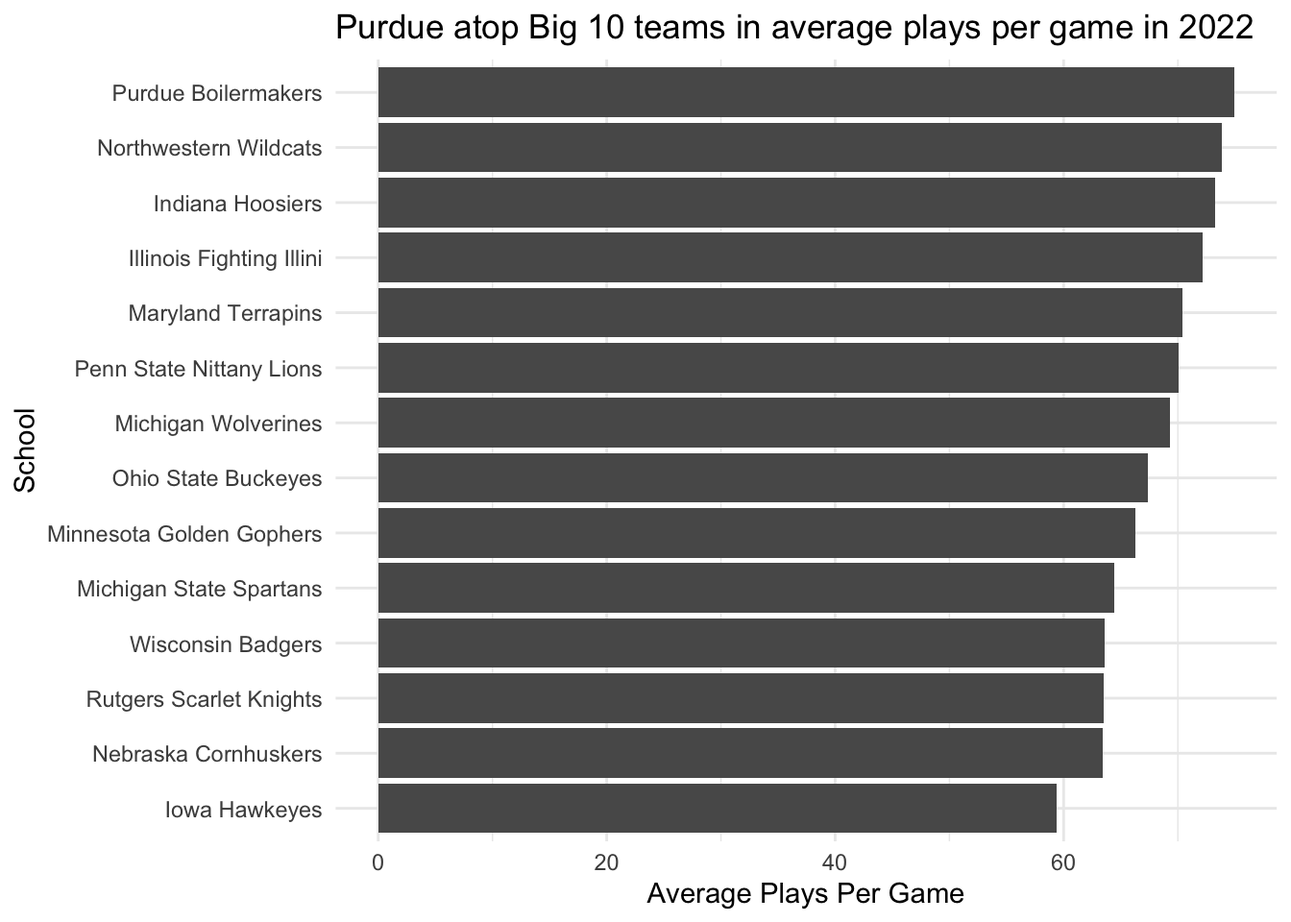
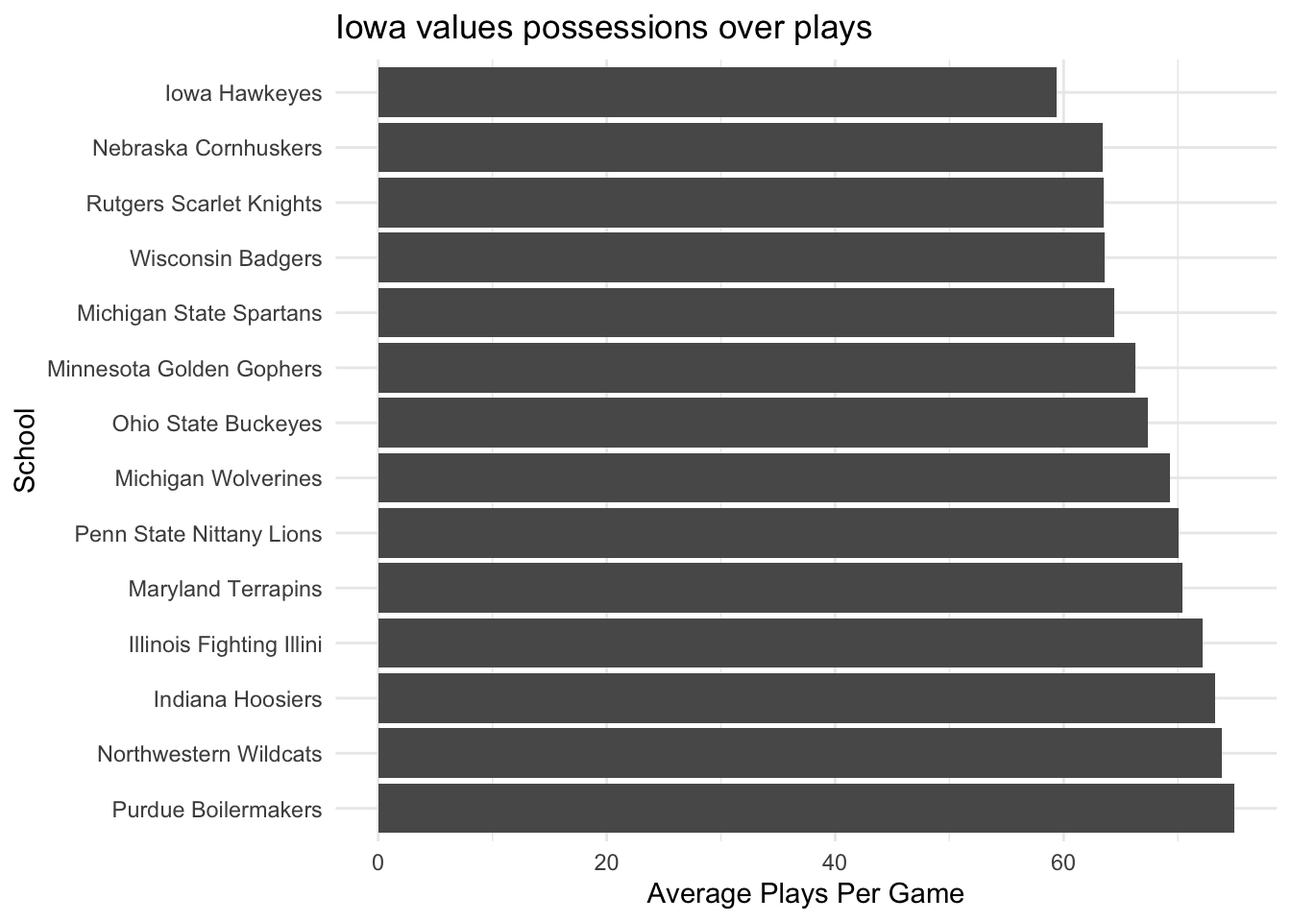
update

diff --git a/docs/posts/less-cfb-plays-2023-than-2022/index.html b/docs/posts/less-cfb-plays-2023-than-2022/index.html
@@ -183,95 +183,58 @@ pre > code.sourceCode > span > a:first-child::before { text-decoration: underlin
 <summary>Code</summary>
 <div class="sourceCode cell-code" id="cb1"><pre class="sourceCode r code-with-copy"><code class="sourceCode r"><span id="cb1-1"><a href="#cb1-1" aria-hidden="true" tabindex="-1"></a><span class="fu">library</span>(tidyverse)</span></code><button title="Copy to Clipboard" class="code-copy-button"><i class="bi"></i></button></pre></div>
 </details>
-<div class="cell-output cell-output-stderr">
-<pre><code>── Attaching core tidyverse packages ──────────────────────── tidyverse 2.0.0 ──
-✔ dplyr     1.1.2     ✔ readr     2.1.4
-✔ forcats   1.0.0     ✔ stringr   1.5.0
-✔ ggplot2   3.4.3     ✔ tibble    3.2.1
-✔ lubridate 1.9.2     ✔ tidyr     1.3.0
-✔ purrr     1.0.2     
-── Conflicts ────────────────────────────────────────── tidyverse_conflicts() ──
-✖ dplyr::filter() masks stats::filter()
-✖ dplyr::lag()    masks stats::lag()
-ℹ Use the conflicted package (&lt;http://conflicted.r-lib.org/&gt;) to force all conflicts to become errors</code></pre>
-</div>
 </div>
 <p>Create college football data frames for 2022 and 2023.</p>
 <div class="cell">
 <details>
 <summary>Code</summary>
-<div class="sourceCode cell-code" id="cb3"><pre class="sourceCode r code-with-copy"><code class="sourceCode r"><span id="cb3-1"><a href="#cb3-1" aria-hidden="true" tabindex="-1"></a>logs22 <span class="ot">&lt;-</span> <span class="fu">read_csv</span>(<span class="st">"https://dwillis.github.io/sports-data-files/footballlogs22.csv"</span>)</span></code><button title="Copy to Clipboard" class="code-copy-button"><i class="bi"></i></button></pre></div>
+<div class="sourceCode cell-code" id="cb2"><pre class="sourceCode r code-with-copy"><code class="sourceCode r"><span id="cb2-1"><a href="#cb2-1" aria-hidden="true" tabindex="-1"></a>logs22 <span class="ot">&lt;-</span> <span class="fu">read_csv</span>(<span class="st">"https://dwillis.github.io/sports-data-files/footballlogs22.csv"</span>)</span>
+<span id="cb2-2"><a href="#cb2-2" aria-hidden="true" tabindex="-1"></a>logs23 <span class="ot">&lt;-</span> <span class="fu">read_csv</span>(<span class="st">"https://dwillis.github.io/sports-data-files/footballlogs23.csv"</span>)</span></code><button title="Copy to Clipboard" class="code-copy-button"><i class="bi"></i></button></pre></div>
 </details>
-<div class="cell-output cell-output-stderr">
-<pre><code>Rows: 1672 Columns: 54
-── Column specification ────────────────────────────────────────────────────────
-Delimiter: ","
-chr   (8): HomeAway, Opponent, Result, TeamFull, TeamURL, Outcome, Team, Con...
-dbl  (45): Game, PassingCmp, PassingAtt, PassingPct, PassingYds, PassingTD, ...
-date  (1): Date
-
-ℹ Use `spec()` to retrieve the full column specification for this data.
-ℹ Specify the column types or set `show_col_types = FALSE` to quiet this message.</code></pre>
-</div>
-<details>
-<summary>Code</summary>
-<div class="sourceCode cell-code" id="cb5"><pre class="sourceCode r code-with-copy"><code class="sourceCode r"><span id="cb5-1"><a href="#cb5-1" aria-hidden="true" tabindex="-1"></a>logs23 <span class="ot">&lt;-</span> <span class="fu">read_csv</span>(<span class="st">"https://dwillis.github.io/sports-data-files/footballlogs23.csv"</span>)</span></code><button title="Copy to Clipboard" class="code-copy-button"><i class="bi"></i></button></pre></div>
-</details>
-<div class="cell-output cell-output-stderr">
-<pre><code>Rows: 752 Columns: 54
-── Column specification ────────────────────────────────────────────────────────
-Delimiter: ","
-chr   (8): HomeAway, Opponent, Result, TeamFull, TeamURL, Outcome, Team, Con...
-dbl  (45): Game, PassingCmp, PassingAtt, PassingPct, PassingYds, PassingTD, ...
-date  (1): Date
-
-ℹ Use `spec()` to retrieve the full column specification for this data.
-ℹ Specify the column types or set `show_col_types = FALSE` to quiet this message.</code></pre>
-</div>
 </div>
 <p>Create a list of Big 10 teams.</p>
 <div class="cell">
 <details>
 <summary>Code</summary>
-<div class="sourceCode cell-code" id="cb7"><pre class="sourceCode r code-with-copy"><code class="sourceCode r"><span id="cb7-1"><a href="#cb7-1" aria-hidden="true" tabindex="-1"></a>big10 <span class="ot">&lt;-</span> <span class="fu">c</span>(<span class="st">"Nebraska Cornhuskers"</span>, <span class="st">"Iowa Hawkeyes"</span>, <span class="st">"Minnesota Golden Gophers"</span>, <span class="st">"Illinois Fighting Illini"</span>, <span class="st">"Northwestern Wildcats"</span>, <span class="st">"Wisconsin Badgers"</span>, <span class="st">"Indiana Hoosiers"</span>, <span class="st">"Purdue Boilermakers"</span>, <span class="st">"Ohio State Buckeyes"</span>, <span class="st">"Michigan Wolverines"</span>, <span class="st">"Michigan State Spartans"</span>, <span class="st">"Penn State Nittany Lions"</span>, <span class="st">"Rutgers Scarlet Knights"</span>, <span class="st">"Maryland Terrapins"</span>)</span></code><button title="Copy to Clipboard" class="code-copy-button"><i class="bi"></i></button></pre></div>
+<div class="sourceCode cell-code" id="cb3"><pre class="sourceCode r code-with-copy"><code class="sourceCode r"><span id="cb3-1"><a href="#cb3-1" aria-hidden="true" tabindex="-1"></a>big10 <span class="ot">&lt;-</span> <span class="fu">c</span>(<span class="st">"Nebraska Cornhuskers"</span>, <span class="st">"Iowa Hawkeyes"</span>, <span class="st">"Minnesota Golden Gophers"</span>, <span class="st">"Illinois Fighting Illini"</span>, <span class="st">"Northwestern Wildcats"</span>, <span class="st">"Wisconsin Badgers"</span>, <span class="st">"Indiana Hoosiers"</span>, <span class="st">"Purdue Boilermakers"</span>, <span class="st">"Ohio State Buckeyes"</span>, <span class="st">"Michigan Wolverines"</span>, <span class="st">"Michigan State Spartans"</span>, <span class="st">"Penn State Nittany Lions"</span>, <span class="st">"Rutgers Scarlet Knights"</span>, <span class="st">"Maryland Terrapins"</span>)</span></code><button title="Copy to Clipboard" class="code-copy-button"><i class="bi"></i></button></pre></div>
 </details>
 </div>
 <p>Filter the data for 2022 using the Big 10 list.</p>
 <div class="cell">
 <details>
 <summary>Code</summary>
-<div class="sourceCode cell-code" id="cb8"><pre class="sourceCode r code-with-copy"><code class="sourceCode r"><span id="cb8-1"><a href="#cb8-1" aria-hidden="true" tabindex="-1"></a>big22 <span class="ot">&lt;-</span> logs22<span class="sc">|&gt;</span> <span class="fu">filter</span>(TeamFull <span class="sc">%in%</span> big10)</span></code><button title="Copy to Clipboard" class="code-copy-button"><i class="bi"></i></button></pre></div>
+<div class="sourceCode cell-code" id="cb4"><pre class="sourceCode r code-with-copy"><code class="sourceCode r"><span id="cb4-1"><a href="#cb4-1" aria-hidden="true" tabindex="-1"></a>big22 <span class="ot">&lt;-</span> logs22<span class="sc">|&gt;</span> <span class="fu">filter</span>(TeamFull <span class="sc">%in%</span> big10)</span></code><button title="Copy to Clipboard" class="code-copy-button"><i class="bi"></i></button></pre></div>
 </details>
 </div>
 <p>Calculate the average number of offensive plays per Big 10 team in 2022.</p>
 <div class="cell">
 <details>
 <summary>Code</summary>
-<div class="sourceCode cell-code" id="cb9"><pre class="sourceCode r code-with-copy"><code class="sourceCode r"><span id="cb9-1"><a href="#cb9-1" aria-hidden="true" tabindex="-1"></a>big22plays <span class="ot">&lt;-</span> big22 <span class="sc">|&gt;</span></span>
-<span id="cb9-2"><a href="#cb9-2" aria-hidden="true" tabindex="-1"></a>  <span class="fu">group_by</span>(TeamFull) <span class="sc">|&gt;</span></span>
-<span id="cb9-3"><a href="#cb9-3" aria-hidden="true" tabindex="-1"></a>  <span class="fu">summarise</span>(</span>
-<span id="cb9-4"><a href="#cb9-4" aria-hidden="true" tabindex="-1"></a>    <span class="at">avgPlays =</span> <span class="fu">mean</span>(OffensivePlays)</span>
-<span id="cb9-5"><a href="#cb9-5" aria-hidden="true" tabindex="-1"></a>  )</span></code><button title="Copy to Clipboard" class="code-copy-button"><i class="bi"></i></button></pre></div>
+<div class="sourceCode cell-code" id="cb5"><pre class="sourceCode r code-with-copy"><code class="sourceCode r"><span id="cb5-1"><a href="#cb5-1" aria-hidden="true" tabindex="-1"></a>big22plays <span class="ot">&lt;-</span> big22 <span class="sc">|&gt;</span></span>
+<span id="cb5-2"><a href="#cb5-2" aria-hidden="true" tabindex="-1"></a>  <span class="fu">group_by</span>(TeamFull) <span class="sc">|&gt;</span></span>
+<span id="cb5-3"><a href="#cb5-3" aria-hidden="true" tabindex="-1"></a>  <span class="fu">summarise</span>(</span>
+<span id="cb5-4"><a href="#cb5-4" aria-hidden="true" tabindex="-1"></a>    <span class="at">avgPlays =</span> <span class="fu">mean</span>(OffensivePlays)</span>
+<span id="cb5-5"><a href="#cb5-5" aria-hidden="true" tabindex="-1"></a>  )</span></code><button title="Copy to Clipboard" class="code-copy-button"><i class="bi"></i></button></pre></div>
 </details>
 </div>
 <p>Make a bar chart of the 2022 Big Ten offensive play averages using ggplot. Add the weight of the average plays to the aesthetic and then reorder the teams by that weight. Add labels for the title and each axis.</p>
-<p>Purdue leads a top four of them, Northwestern, Indiana and Illinois among teams in the Big 10 that averaged the most plays per game in 2022. A lot of the teams in the Big 10 are bunched together around 70 plays or more per game, with the entirety of the top-half of the teams averaging over 69 plays per game. Iowa clearly brings up the rear at less than 60 plays per game, over 15 plays fewer than Purdue.</p>
+<p>Iowa clearly brings up the rear among teams in the Big 10 that averaged the most plays per game in 2022 at less than 60 plays per game. The Hawkeyes seem to value simply getting possessions and controlling the clock over getting off as many plays as possible. They are over 15 plays fewer than Purdue — the number one team of a top four of them, Northwestern, Indiana and Illinois. A lot of the teams in the Big 10 are bunched together around 70 plays or more per game, with the entirety of the top-half of the teams averaging over 69 plays per game.</p>
 <div class="cell">
 <details>
 <summary>Code</summary>
-<div class="sourceCode cell-code" id="cb10"><pre class="sourceCode r code-with-copy"><code class="sourceCode r"><span id="cb10-1"><a href="#cb10-1" aria-hidden="true" tabindex="-1"></a><span class="fu">ggplot</span>() <span class="sc">+</span> </span>
-<span id="cb10-2"><a href="#cb10-2" aria-hidden="true" tabindex="-1"></a>  <span class="fu">geom_bar</span>(</span>
-<span id="cb10-3"><a href="#cb10-3" aria-hidden="true" tabindex="-1"></a>    <span class="at">data=</span>big22plays, </span>
-<span id="cb10-4"><a href="#cb10-4" aria-hidden="true" tabindex="-1"></a>    <span class="fu">aes</span>(</span>
-<span id="cb10-5"><a href="#cb10-5" aria-hidden="true" tabindex="-1"></a>      <span class="at">x=</span><span class="fu">reorder</span>(TeamFull, avgPlays), <span class="at">weight =</span> avgPlays)</span>
-<span id="cb10-6"><a href="#cb10-6" aria-hidden="true" tabindex="-1"></a>  ) <span class="sc">+</span></span>
-<span id="cb10-7"><a href="#cb10-7" aria-hidden="true" tabindex="-1"></a>  <span class="fu">labs</span>(</span>
-<span id="cb10-8"><a href="#cb10-8" aria-hidden="true" tabindex="-1"></a>    <span class="at">title=</span><span class="st">"Purdue atop Big 10 teams in average plays per game in 2022"</span>, </span>
-<span id="cb10-9"><a href="#cb10-9" aria-hidden="true" tabindex="-1"></a>    <span class="at">x=</span><span class="st">"School"</span>, </span>
-<span id="cb10-10"><a href="#cb10-10" aria-hidden="true" tabindex="-1"></a>    <span class="at">y=</span><span class="st">"Average Plays Per Game"</span></span>
-<span id="cb10-11"><a href="#cb10-11" aria-hidden="true" tabindex="-1"></a>  ) <span class="sc">+</span> </span>
-<span id="cb10-12"><a href="#cb10-12" aria-hidden="true" tabindex="-1"></a>  <span class="fu">theme_minimal</span>() <span class="sc">+</span> </span>
-<span id="cb10-13"><a href="#cb10-13" aria-hidden="true" tabindex="-1"></a>  <span class="fu">coord_flip</span>()</span></code><button title="Copy to Clipboard" class="code-copy-button"><i class="bi"></i></button></pre></div>
+<div class="sourceCode cell-code" id="cb6"><pre class="sourceCode r code-with-copy"><code class="sourceCode r"><span id="cb6-1"><a href="#cb6-1" aria-hidden="true" tabindex="-1"></a><span class="fu">ggplot</span>() <span class="sc">+</span> </span>
+<span id="cb6-2"><a href="#cb6-2" aria-hidden="true" tabindex="-1"></a>  <span class="fu">geom_bar</span>(</span>
+<span id="cb6-3"><a href="#cb6-3" aria-hidden="true" tabindex="-1"></a>    <span class="at">data=</span>big22plays, </span>
+<span id="cb6-4"><a href="#cb6-4" aria-hidden="true" tabindex="-1"></a>    <span class="fu">aes</span>(</span>
+<span id="cb6-5"><a href="#cb6-5" aria-hidden="true" tabindex="-1"></a>      <span class="at">x=</span><span class="fu">reorder</span>(TeamFull, <span class="sc">-</span>avgPlays), <span class="at">weight =</span> avgPlays)</span>
+<span id="cb6-6"><a href="#cb6-6" aria-hidden="true" tabindex="-1"></a>  ) <span class="sc">+</span></span>
+<span id="cb6-7"><a href="#cb6-7" aria-hidden="true" tabindex="-1"></a>  <span class="fu">labs</span>(</span>
+<span id="cb6-8"><a href="#cb6-8" aria-hidden="true" tabindex="-1"></a>    <span class="at">title=</span><span class="st">"Iowa values possessions over plays"</span>, </span>
+<span id="cb6-9"><a href="#cb6-9" aria-hidden="true" tabindex="-1"></a>    <span class="at">x=</span><span class="st">"School"</span>, </span>
+<span id="cb6-10"><a href="#cb6-10" aria-hidden="true" tabindex="-1"></a>    <span class="at">y=</span><span class="st">"Average Plays Per Game"</span></span>
+<span id="cb6-11"><a href="#cb6-11" aria-hidden="true" tabindex="-1"></a>  ) <span class="sc">+</span> </span>
+<span id="cb6-12"><a href="#cb6-12" aria-hidden="true" tabindex="-1"></a>  <span class="fu">theme_minimal</span>() <span class="sc">+</span> </span>
+<span id="cb6-13"><a href="#cb6-13" aria-hidden="true" tabindex="-1"></a>  <span class="fu">coord_flip</span>()</span></code><button title="Copy to Clipboard" class="code-copy-button"><i class="bi"></i></button></pre></div>
 </details>
 <div class="cell-output-display">
 <p><img src="index_files/figure-html/unnamed-chunk-6-1.png" class="img-fluid" width="672"></p>
@@ -281,18 +244,18 @@ date  (1): Date
 <div class="cell">
 <details>
 <summary>Code</summary>
-<div class="sourceCode cell-code" id="cb11"><pre class="sourceCode r code-with-copy"><code class="sourceCode r"><span id="cb11-1"><a href="#cb11-1" aria-hidden="true" tabindex="-1"></a>big23 <span class="ot">&lt;-</span> logs23<span class="sc">|&gt;</span> <span class="fu">filter</span>(TeamFull <span class="sc">%in%</span> big10)</span></code><button title="Copy to Clipboard" class="code-copy-button"><i class="bi"></i></button></pre></div>
+<div class="sourceCode cell-code" id="cb7"><pre class="sourceCode r code-with-copy"><code class="sourceCode r"><span id="cb7-1"><a href="#cb7-1" aria-hidden="true" tabindex="-1"></a>big23 <span class="ot">&lt;-</span> logs23<span class="sc">|&gt;</span> <span class="fu">filter</span>(TeamFull <span class="sc">%in%</span> big10)</span></code><button title="Copy to Clipboard" class="code-copy-button"><i class="bi"></i></button></pre></div>
 </details>
 </div>
 <p>Calculate the average number of offensive plays per Big 10 team in 2023.</p>
 <div class="cell">
 <details>
 <summary>Code</summary>
-<div class="sourceCode cell-code" id="cb12"><pre class="sourceCode r code-with-copy"><code class="sourceCode r"><span id="cb12-1"><a href="#cb12-1" aria-hidden="true" tabindex="-1"></a>big23plays <span class="ot">&lt;-</span> big23 <span class="sc">|&gt;</span></span>
-<span id="cb12-2"><a href="#cb12-2" aria-hidden="true" tabindex="-1"></a>  <span class="fu">group_by</span>(TeamFull) <span class="sc">|&gt;</span></span>
-<span id="cb12-3"><a href="#cb12-3" aria-hidden="true" tabindex="-1"></a>  <span class="fu">summarise</span>(</span>
-<span id="cb12-4"><a href="#cb12-4" aria-hidden="true" tabindex="-1"></a>    <span class="at">avgPlays =</span> <span class="fu">mean</span>(OffensivePlays)</span>
-<span id="cb12-5"><a href="#cb12-5" aria-hidden="true" tabindex="-1"></a>  )</span></code><button title="Copy to Clipboard" class="code-copy-button"><i class="bi"></i></button></pre></div>
+<div class="sourceCode cell-code" id="cb8"><pre class="sourceCode r code-with-copy"><code class="sourceCode r"><span id="cb8-1"><a href="#cb8-1" aria-hidden="true" tabindex="-1"></a>big23plays <span class="ot">&lt;-</span> big23 <span class="sc">|&gt;</span></span>
+<span id="cb8-2"><a href="#cb8-2" aria-hidden="true" tabindex="-1"></a>  <span class="fu">group_by</span>(TeamFull) <span class="sc">|&gt;</span></span>
+<span id="cb8-3"><a href="#cb8-3" aria-hidden="true" tabindex="-1"></a>  <span class="fu">summarise</span>(</span>
+<span id="cb8-4"><a href="#cb8-4" aria-hidden="true" tabindex="-1"></a>    <span class="at">avgPlays =</span> <span class="fu">mean</span>(OffensivePlays)</span>
+<span id="cb8-5"><a href="#cb8-5" aria-hidden="true" tabindex="-1"></a>  )</span></code><button title="Copy to Clipboard" class="code-copy-button"><i class="bi"></i></button></pre></div>
 </details>
 </div>
 <p>Make a bar chart of the 2023 Big Ten offensive play averages using ggplot. Add the weight of the average plays to the aesthetic and then reorder the teams by that weight. Add labels for the title and each axis.</p>
@@ -300,55 +263,43 @@ date  (1): Date
 <div class="cell">
 <details>
 <summary>Code</summary>
-<div class="sourceCode cell-code" id="cb13"><pre class="sourceCode r code-with-copy"><code class="sourceCode r"><span id="cb13-1"><a href="#cb13-1" aria-hidden="true" tabindex="-1"></a><span class="fu">ggplot</span>() <span class="sc">+</span> </span>
-<span id="cb13-2"><a href="#cb13-2" aria-hidden="true" tabindex="-1"></a>  <span class="fu">geom_bar</span>(</span>
-<span id="cb13-3"><a href="#cb13-3" aria-hidden="true" tabindex="-1"></a>    <span class="at">data=</span>big23plays, </span>
-<span id="cb13-4"><a href="#cb13-4" aria-hidden="true" tabindex="-1"></a>    <span class="fu">aes</span>(</span>
-<span id="cb13-5"><a href="#cb13-5" aria-hidden="true" tabindex="-1"></a>      <span class="at">x=</span><span class="fu">reorder</span>(TeamFull, avgPlays), <span class="at">weight =</span> avgPlays)</span>
-<span id="cb13-6"><a href="#cb13-6" aria-hidden="true" tabindex="-1"></a>  ) <span class="sc">+</span></span>
-<span id="cb13-7"><a href="#cb13-7" aria-hidden="true" tabindex="-1"></a>  <span class="fu">labs</span>(</span>
-<span id="cb13-8"><a href="#cb13-8" aria-hidden="true" tabindex="-1"></a>    <span class="at">title=</span><span class="st">"Penn State atop Big 10 teams in average plays per game in 2023"</span>, </span>
-<span id="cb13-9"><a href="#cb13-9" aria-hidden="true" tabindex="-1"></a>    <span class="at">x=</span><span class="st">"School"</span>, </span>
-<span id="cb13-10"><a href="#cb13-10" aria-hidden="true" tabindex="-1"></a>    <span class="at">y=</span><span class="st">"Average Plays Per Game"</span></span>
-<span id="cb13-11"><a href="#cb13-11" aria-hidden="true" tabindex="-1"></a>  ) <span class="sc">+</span> </span>
-<span id="cb13-12"><a href="#cb13-12" aria-hidden="true" tabindex="-1"></a>  <span class="fu">theme_minimal</span>() <span class="sc">+</span> </span>
-<span id="cb13-13"><a href="#cb13-13" aria-hidden="true" tabindex="-1"></a>  <span class="fu">coord_flip</span>()</span></code><button title="Copy to Clipboard" class="code-copy-button"><i class="bi"></i></button></pre></div>
+<div class="sourceCode cell-code" id="cb9"><pre class="sourceCode r code-with-copy"><code class="sourceCode r"><span id="cb9-1"><a href="#cb9-1" aria-hidden="true" tabindex="-1"></a><span class="fu">ggplot</span>() <span class="sc">+</span> </span>
+<span id="cb9-2"><a href="#cb9-2" aria-hidden="true" tabindex="-1"></a>  <span class="fu">geom_bar</span>(</span>
+<span id="cb9-3"><a href="#cb9-3" aria-hidden="true" tabindex="-1"></a>    <span class="at">data=</span>big23plays, </span>
+<span id="cb9-4"><a href="#cb9-4" aria-hidden="true" tabindex="-1"></a>    <span class="fu">aes</span>(</span>
+<span id="cb9-5"><a href="#cb9-5" aria-hidden="true" tabindex="-1"></a>      <span class="at">x=</span><span class="fu">reorder</span>(TeamFull, avgPlays), <span class="at">weight =</span> avgPlays)</span>
+<span id="cb9-6"><a href="#cb9-6" aria-hidden="true" tabindex="-1"></a>  ) <span class="sc">+</span></span>
+<span id="cb9-7"><a href="#cb9-7" aria-hidden="true" tabindex="-1"></a>  <span class="fu">labs</span>(</span>
+<span id="cb9-8"><a href="#cb9-8" aria-hidden="true" tabindex="-1"></a>    <span class="at">title=</span><span class="st">"Penn State's fast-paced offense"</span>, </span>
+<span id="cb9-9"><a href="#cb9-9" aria-hidden="true" tabindex="-1"></a>    <span class="at">x=</span><span class="st">"School"</span>, </span>
+<span id="cb9-10"><a href="#cb9-10" aria-hidden="true" tabindex="-1"></a>    <span class="at">y=</span><span class="st">"Average Plays Per Game"</span></span>
+<span id="cb9-11"><a href="#cb9-11" aria-hidden="true" tabindex="-1"></a>  ) <span class="sc">+</span> </span>
+<span id="cb9-12"><a href="#cb9-12" aria-hidden="true" tabindex="-1"></a>  <span class="fu">theme_minimal</span>() <span class="sc">+</span> </span>
+<span id="cb9-13"><a href="#cb9-13" aria-hidden="true" tabindex="-1"></a>  <span class="fu">coord_flip</span>()</span></code><button title="Copy to Clipboard" class="code-copy-button"><i class="bi"></i></button></pre></div>
 </details>
 <div class="cell-output-display">
 <p><img src="index_files/figure-html/unnamed-chunk-9-1.png" class="img-fluid" width="672"></p>
 </div>
 </div>
-<p>Divide the sum of the entirety of the Big 10 teams’ 2022 plays by 14 to get the average number of plays for the conference.</p>
+<p>Divide the sum of the entirety of the Big 10 teams’ 2022 plays by 14 to get the average number of plays for the conference. That gets an average of about 67.99.</p>
 <div class="cell">
 <details>
 <summary>Code</summary>
-<div class="sourceCode cell-code" id="cb14"><pre class="sourceCode r code-with-copy"><code class="sourceCode r"><span id="cb14-1"><a href="#cb14-1" aria-hidden="true" tabindex="-1"></a>big22plays <span class="sc">|&gt;</span></span>
-<span id="cb14-2"><a href="#cb14-2" aria-hidden="true" tabindex="-1"></a>  <span class="fu">summarise</span>(</span>
-<span id="cb14-3"><a href="#cb14-3" aria-hidden="true" tabindex="-1"></a>    <span class="at">avgPlays =</span> (<span class="fu">sum</span>(avgPlays))<span class="sc">/</span><span class="dv">14</span></span>
-<span id="cb14-4"><a href="#cb14-4" aria-hidden="true" tabindex="-1"></a>  )</span></code><button title="Copy to Clipboard" class="code-copy-button"><i class="bi"></i></button></pre></div>
+<div class="sourceCode cell-code" id="cb10"><pre class="sourceCode r code-with-copy"><code class="sourceCode r"><span id="cb10-1"><a href="#cb10-1" aria-hidden="true" tabindex="-1"></a>big22plays <span class="sc">|&gt;</span></span>
+<span id="cb10-2"><a href="#cb10-2" aria-hidden="true" tabindex="-1"></a>  <span class="fu">summarise</span>(</span>
+<span id="cb10-3"><a href="#cb10-3" aria-hidden="true" tabindex="-1"></a>    <span class="at">avgPlays =</span> (<span class="fu">sum</span>(avgPlays))<span class="sc">/</span><span class="dv">14</span></span>
+<span id="cb10-4"><a href="#cb10-4" aria-hidden="true" tabindex="-1"></a>  )</span></code><button title="Copy to Clipboard" class="code-copy-button"><i class="bi"></i></button></pre></div>
 </details>
-<div class="cell-output cell-output-stdout">
-<pre><code># A tibble: 1 × 1
-  avgPlays
-     &lt;dbl&gt;
-1     68.0</code></pre>
 </div>
-</div>
-<p>Divide the sum of the entirety of the Big 10 teams’ 2023 plays by 14 to get the average number of plays for the conference.</p>
+<p>Divide the sum of the entirety of the Big 10 teams’ 2023 plays by 14 to get the average number of plays for the conference. That gets an average of about 66.16.</p>
 <div class="cell">
 <details>
 <summary>Code</summary>
-<div class="sourceCode cell-code" id="cb16"><pre class="sourceCode r code-with-copy"><code class="sourceCode r"><span id="cb16-1"><a href="#cb16-1" aria-hidden="true" tabindex="-1"></a>big23plays <span class="sc">|&gt;</span></span>
-<span id="cb16-2"><a href="#cb16-2" aria-hidden="true" tabindex="-1"></a>  <span class="fu">summarise</span>(</span>
-<span id="cb16-3"><a href="#cb16-3" aria-hidden="true" tabindex="-1"></a>    <span class="at">avgPlays =</span> (<span class="fu">sum</span>(avgPlays))<span class="sc">/</span><span class="dv">14</span></span>
-<span id="cb16-4"><a href="#cb16-4" aria-hidden="true" tabindex="-1"></a>  )</span></code><button title="Copy to Clipboard" class="code-copy-button"><i class="bi"></i></button></pre></div>
+<div class="sourceCode cell-code" id="cb11"><pre class="sourceCode r code-with-copy"><code class="sourceCode r"><span id="cb11-1"><a href="#cb11-1" aria-hidden="true" tabindex="-1"></a>big23plays <span class="sc">|&gt;</span></span>
+<span id="cb11-2"><a href="#cb11-2" aria-hidden="true" tabindex="-1"></a>  <span class="fu">summarise</span>(</span>
+<span id="cb11-3"><a href="#cb11-3" aria-hidden="true" tabindex="-1"></a>    <span class="at">avgPlays =</span> (<span class="fu">sum</span>(avgPlays))<span class="sc">/</span><span class="dv">14</span></span>
+<span id="cb11-4"><a href="#cb11-4" aria-hidden="true" tabindex="-1"></a>  )</span></code><button title="Copy to Clipboard" class="code-copy-button"><i class="bi"></i></button></pre></div>
 </details>
-<div class="cell-output cell-output-stdout">
-<pre><code># A tibble: 1 × 1
-  avgPlays
-     &lt;dbl&gt;
-1     66.2</code></pre>
-</div>
 </div>
 <p>The biggest takeaway to me is that Big 10 teams are running slightly fewer plays per game this season than in 2022, but not by much. Despite the NCAA aiming to shorten games — and in turn, possessions — by a noticeable margin through the new first down rule, Big 10 teams aren’t even averaging two less plays per game. There’s an influx of certain teams running more plays on average in 2023 — most notably Penn State and Wisconsin — and an influx of certain teams running less plays on average in 2023 — most notably Northwestern and Indiana — but at the end of the day, on average, there are only slightly less plays being run for the Big 10 teams.</p>
 

diff --git a/docs/index.html b/docs/index.html
@@ -170,7 +170,7 @@ ul.task-list li input[type="checkbox"] {
 
 <div class="quarto-listing quarto-listing-container-default" id="listing-listing">
 <div class="list quarto-listing-default">
-<div class="quarto-post image-right" data-index="0" data-listing-date-sort="1696910400000" data-listing-file-modified-sort="1696977833915" data-listing-date-modified-sort="NaN" data-listing-reading-time-sort="4">
+<div class="quarto-post image-right" data-index="0" data-listing-date-sort="1696910400000" data-listing-file-modified-sort="1697136026671" data-listing-date-modified-sort="NaN" data-listing-reading-time-sort="4">
 <div class="thumbnail">
 <p><a href="./posts/less-cfb-plays-2023-than-2022/index.html"> <p class="card-img-top"><img src="posts/less-cfb-plays-2023-than-2022/index_files/figure-html/unnamed-chunk-6-1.png"  class="thumbnail-image card-img"/></p> </a></p>
 </div>
